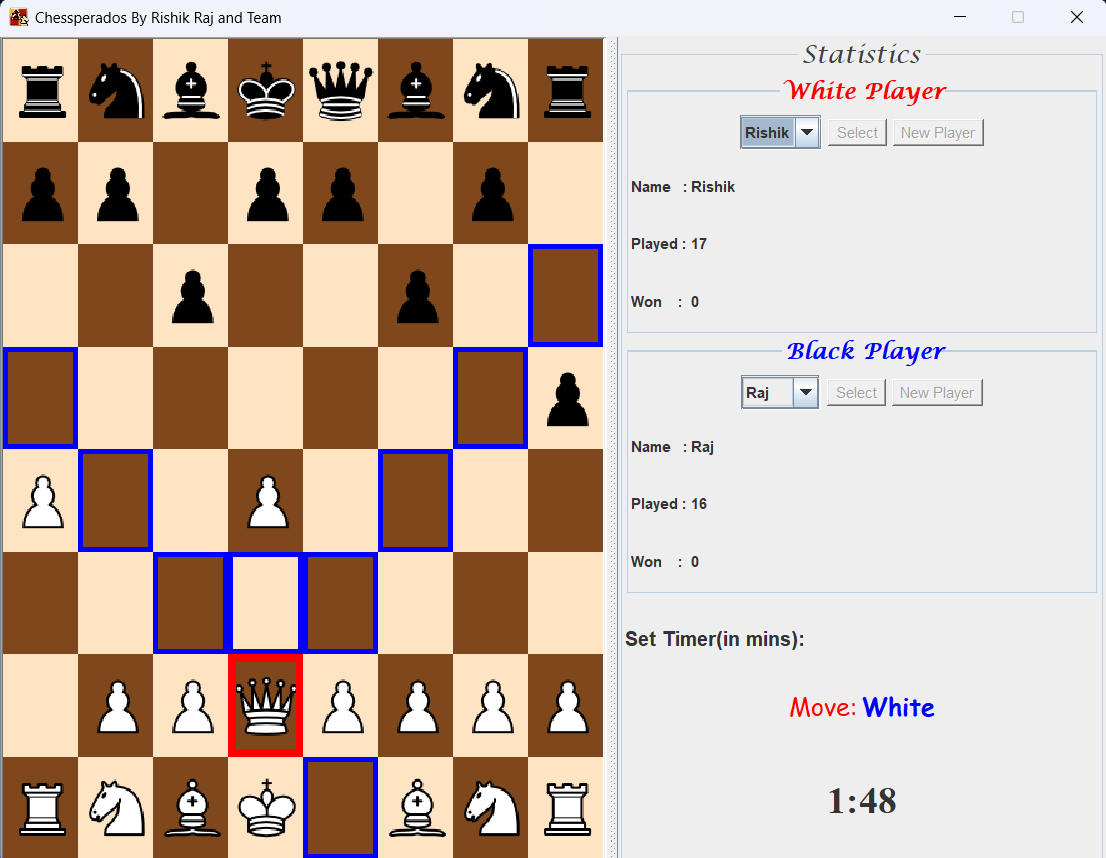
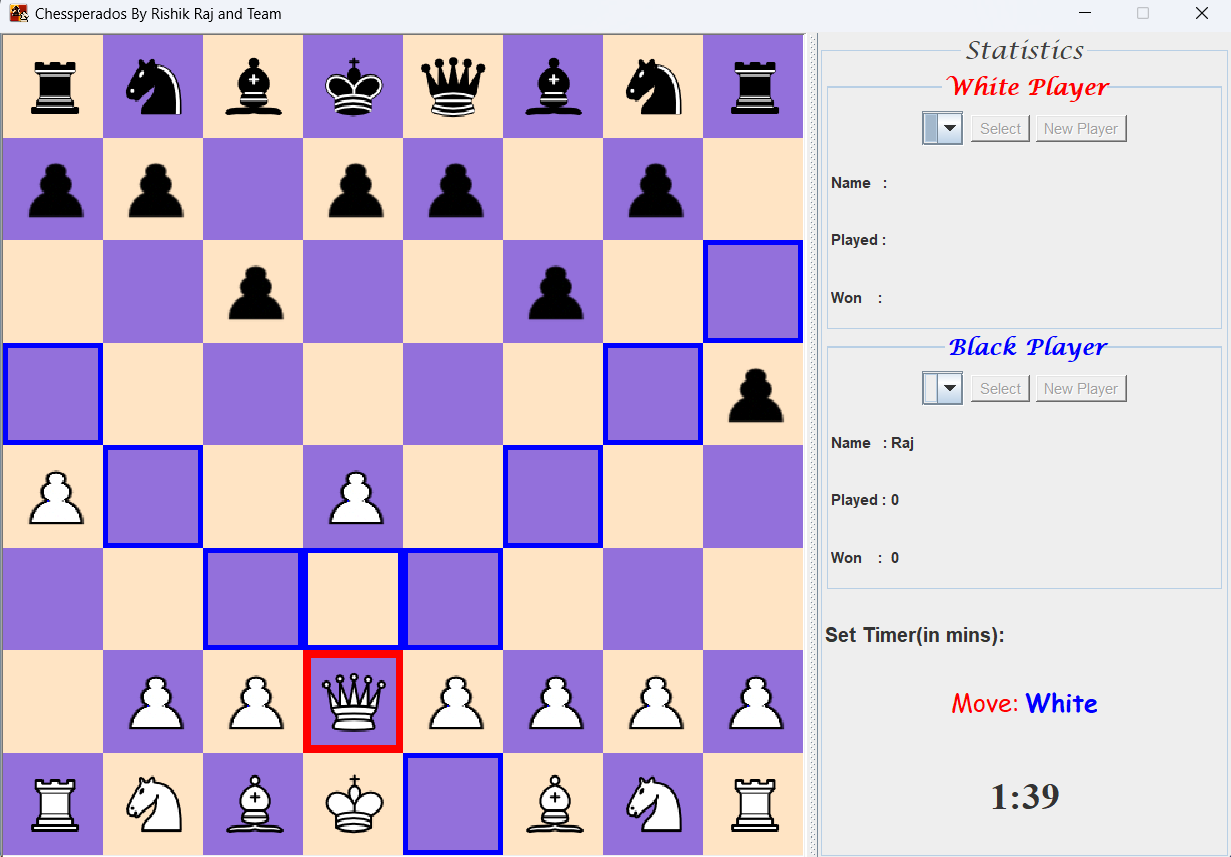
Final commit

diff --git a/src/chess/Cell.java b/src/chess/Cell.java
@@ -32,7 +32,7 @@ public class Cell extends JPanel implements Cloneable{
 	  setBackground(new Color(255, 228, 196));
 	
 	 else
-	  setBackground(new Color(126, 72, 28));
+	  setBackground(new Color(147, 112, 219));
 	 
 	 if(p!=null)
 		 setPiece(p);
@@ -47,7 +47,7 @@ public class Cell extends JPanel implements Cloneable{
 		if((x+y)%2==0)
 			setBackground(new Color(255, 228, 196));
 		else
-			setBackground(new Color(126, 72, 28));
+			setBackground(new Color(147, 112, 219));
 		if(cell.getpiece()!=null)
 		{
 			setPiece(cell.getpiece().getcopy());
@@ -95,7 +95,7 @@ public class Cell extends JPanel implements Cloneable{
 		return this.isSelected;
 	}
 	
-	public void deselect()      //Function to delselect the cell
+	public void deselect()      //Function to deselect the cell
 	{
 		this.setBorder(null);
 		this.isSelected=false;
@@ -130,7 +130,7 @@ public class Cell extends JPanel implements Cloneable{
 		if((x+y)%2==0)
 			setBackground(new Color(255, 228, 196));
 		else
-			setBackground(new Color(126, 72, 28));
+			setBackground(new Color(147, 112, 219));
 		this.ischeck=false;
 	}
 	

diff --git a/src/chess/Main.java b/src/chess/Main.java
@@ -27,7 +27,7 @@ public class Main extends JFrame implements MouseListener
 	
 	//Variable Declaration
 	private static final int Height=700;
-	private static final int Width=900;
+	private static final int Width=1000;
 	private static Rook wr01,wr02,br01,br02;
 	private static Knight wk01,wk02,bk01,bk02;
 	private static Bishop wb01,wb02,bb01,bb02;

diff --git a/README.md b/README.md
@@ -1,0 +1,69 @@
+# Chessperados
+
+This is a windows application of a chess game built in Java and Java Swing by Rishik Raj and team members Saurav Sinha, Shivank, and Samir Chaudhary as part of our 4th semester project work.  The game can be played by two players by selecting their names and maximum time for each move. Players can select any piece from the chess board to move according to the rules of chess. As a player selects any piece, all the possible moves will be highlighted, and the player can move to any of the highlighted squares. The game will either be won by any of the players or will end in a draw because the king has no place to move.
+
+## Table of Contents
+
+- [Chess Game](#chess-game)
+  - [Table of Contents](#table-of-contents)
+  - [Installation](#installation)
+  - [Usage](#usage)
+  - [Features](#features)
+  - [Technologies Used](#technologies-used)
+  - [Contributing](#contributing)
+  - [License](#license)
+
+## Installation
+
+To install and run the game, follow these steps:
+
+1. Clone the repository to your local machine using `git clone https://github.com/rishikraj990/Chessperados.git`.
+2. Navigate to the project directory.
+3. Compile the Java source files using `javac *.java`.
+4. Run the game using `java Main`.
+
+## Usage
+
+Once the game is running, players can select their names and maximum time for each move. Players can then make moves by selecting a piece and then selecting one of the highlighted squares to move the piece to. The game will end when one of the players wins or when the game is drawn because the king has no place to move.
+
+## Features
+
+The following features are available in the game:
+
+- Two players can play the game.
+
+<img src="./Photos/1.png" width="50%" height="50%">
+- Players can select their names and maximum time for each move.
+
+<img src="./Photos/2.png" width="50%" height="50%">
+- Players can move any piece according to the rules of chess.
+
+<img src="./Photos/3.png" width="50%" height="50%">
+- All the possible moves for a selected piece are highlighted.
+
+<img src="./Photos/4.png" width="50%" height="50%">
+
+- The game ends when one of the players wins or when the game is drawn.
+
+<img src="./Photos/5.png" width="50%" height="50%">
+
+## Technologies Used
+
+The following technologies were used in the development of this project:
+
+- Java
+- Java Swing
+
+## Contributing
+
+Contributions to the project are welcome. To contribute, follow these steps:
+
+1. Fork the repository.
+2. Create a new branch for your changes.
+3. Make your changes and commit them with a descriptive commit message.
+4. Push your changes to your forked repository.
+5. Submit a pull request to the original repository with a description of your changes.
+
+## License
+
+This project is licensed under the MIT License. See the `LICENSE` file for more information.
